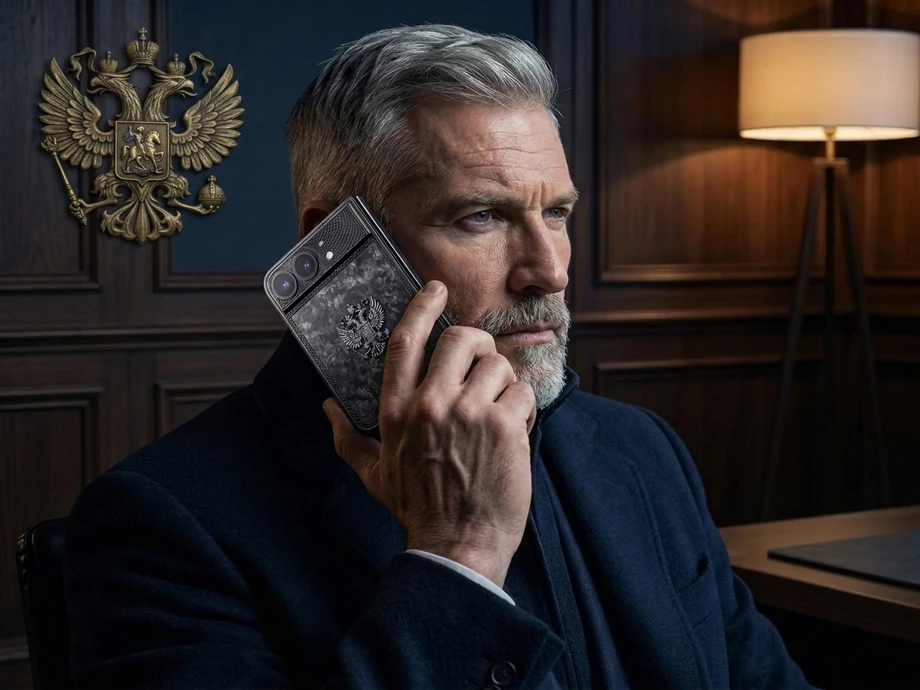
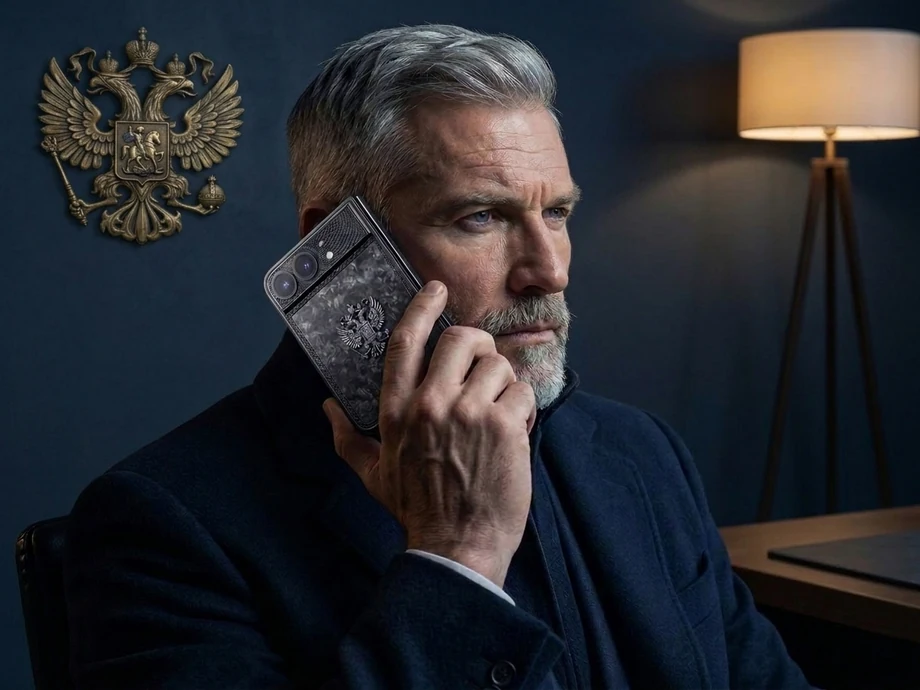
Mount the heraldic plaque on an uninterrupted wall

diff --git a/holiday-privileges-2026/index.html b/holiday-privileges-2026/index.html
@@ -71,7 +71,7 @@
         </div>
       </a>
       <a class="catalog-card" href="https://caviar-phones.ru/collections/russia/">
-        <img class="catalog-image" src="assets/recommendation-russia.webp?v=d5bd324" alt="" loading="lazy" width="920" height="690">
+        <img class="catalog-image" src="assets/recommendation-russia.webp?v=e3f0922" alt="" loading="lazy" width="920" height="690">
         <div class="catalog-card-copy">
           <h3>Патриотический подарок</h3>
           <span>Смотреть коллекцию «Россия»</span>
